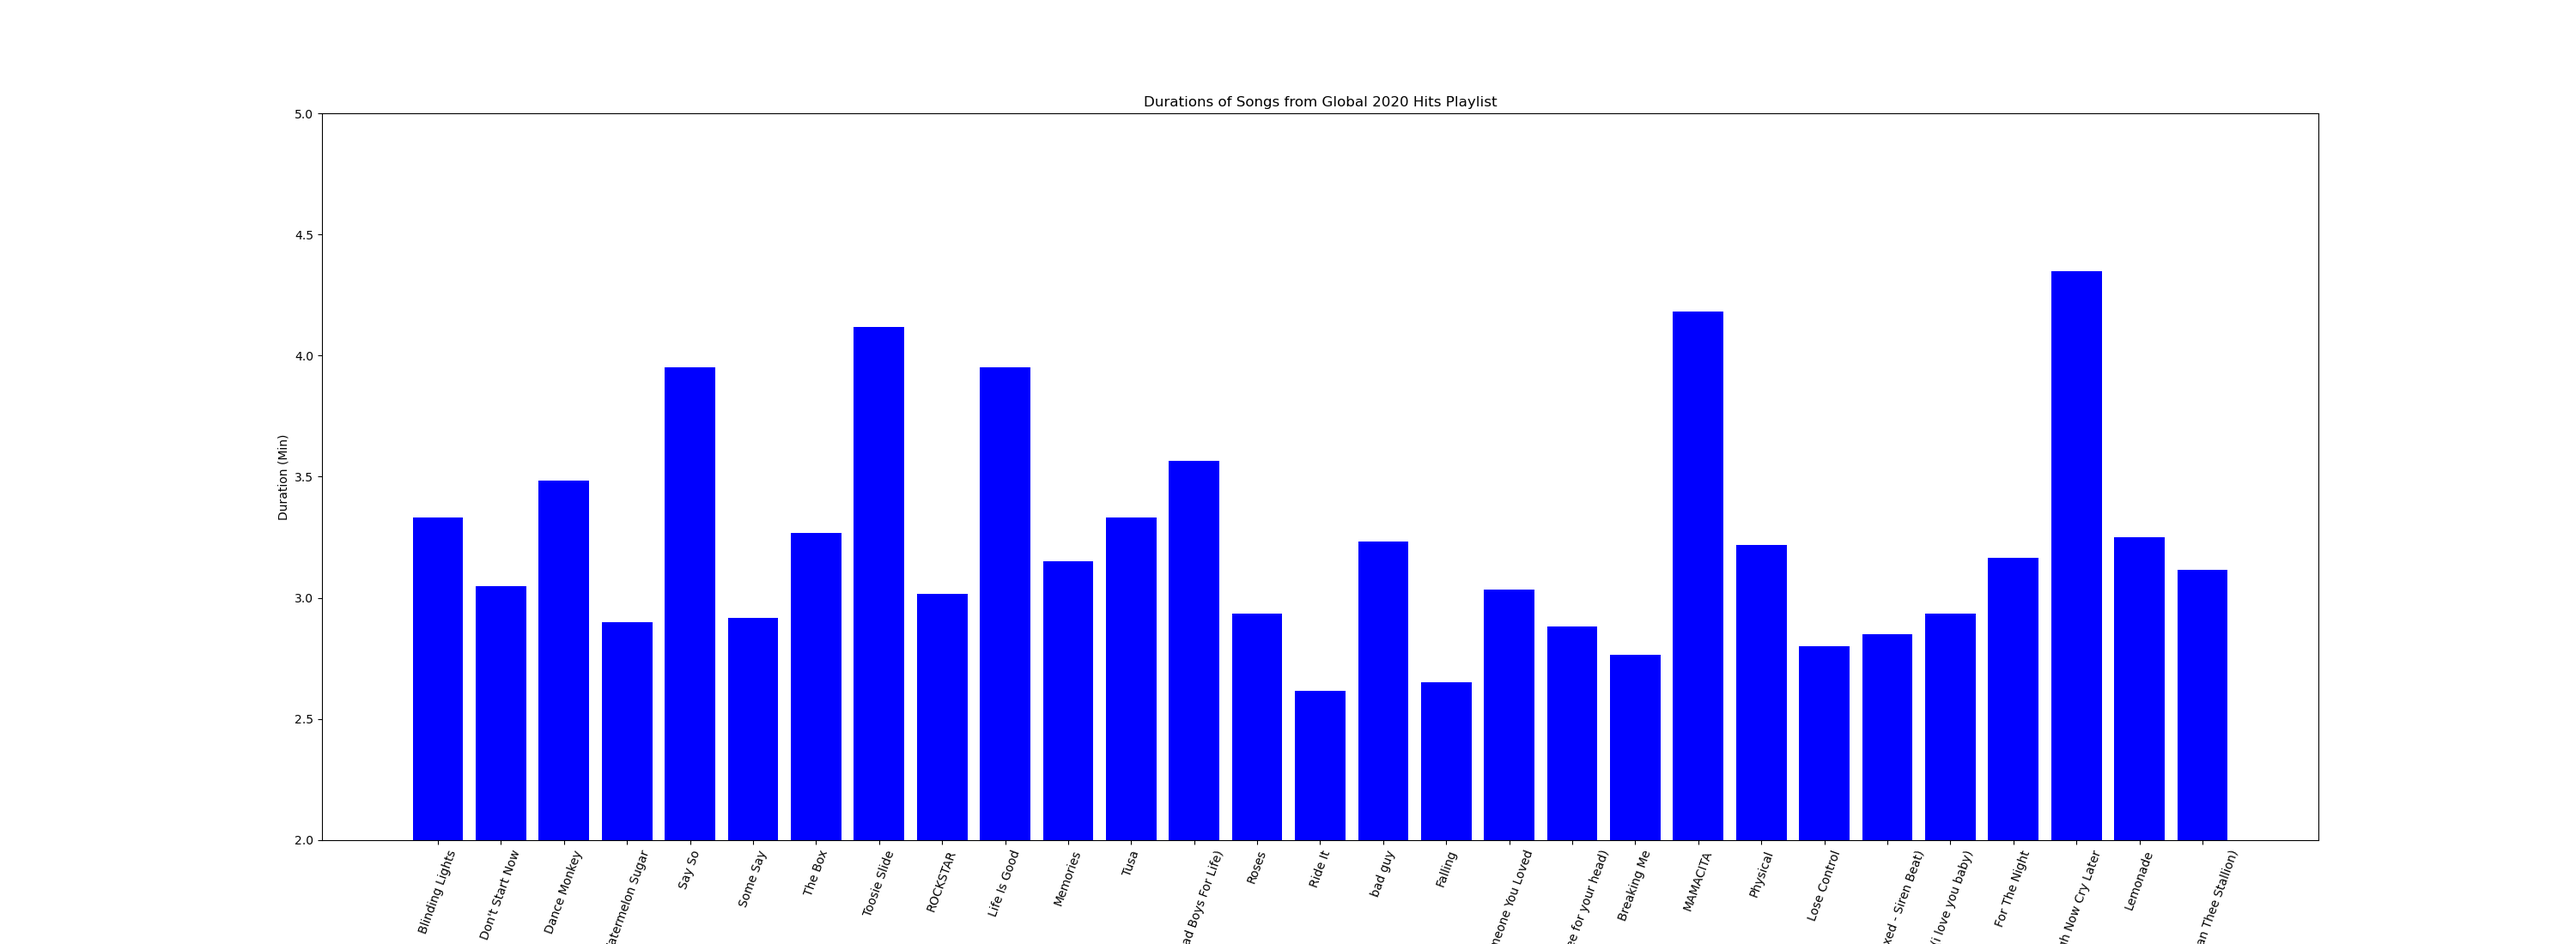
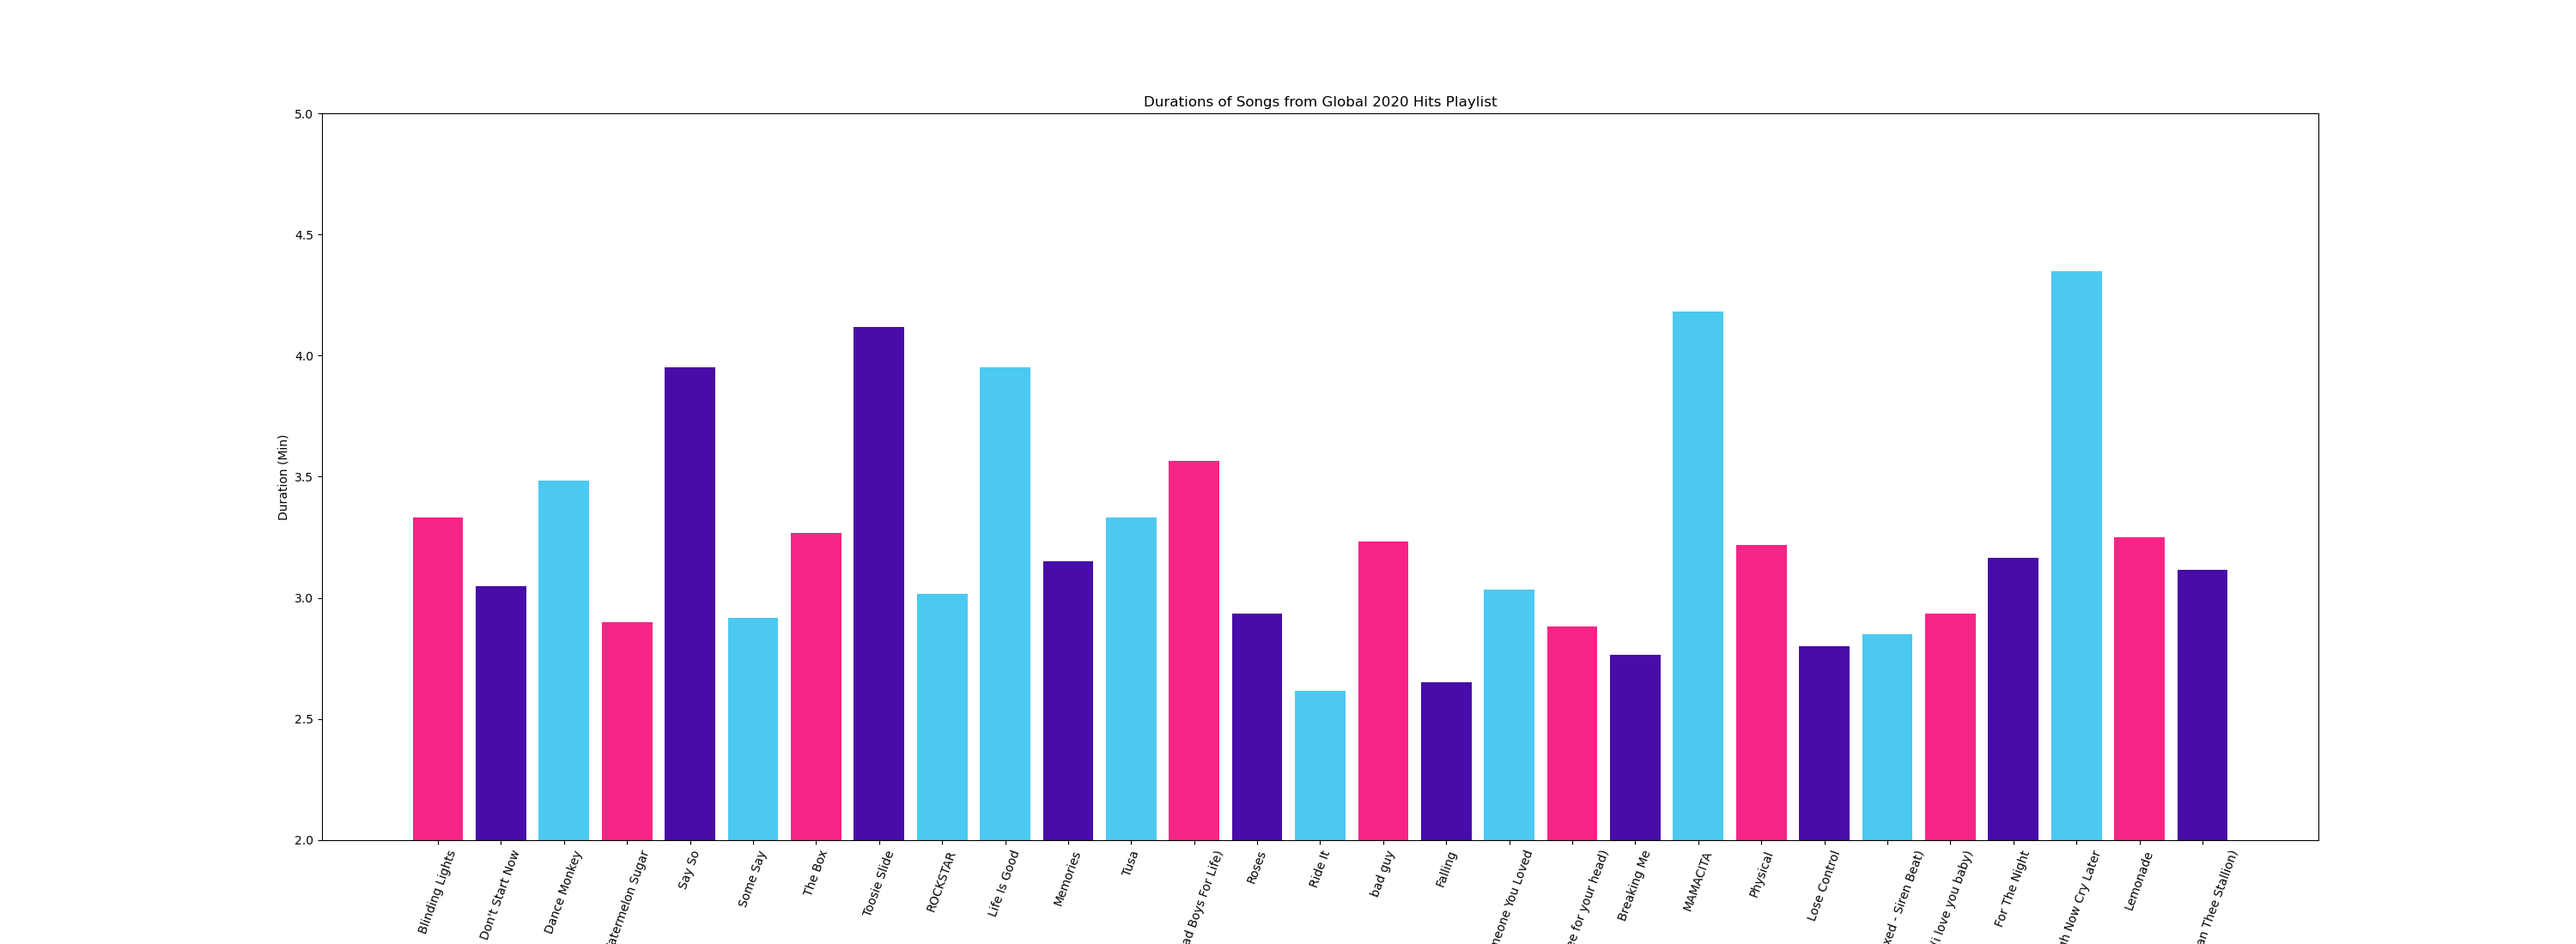
Add files via upload

Changed region(s): [[0.155, 0.2782, 0.868, 0.8964]]

diff --git a/deezer.py b/deezer.py
@@ -63,7 +63,7 @@ def music(cur, conn, Pname, playlist):
     conn.commit()
     #counter = 0
     f = open("DeezerSummary.txt", 'w')
-    f.write("Average duration for a song in the" + Pname + " is: " + str(avg_min) + " minutes" + "\n")
+    f.write("Average duration for a song in the Global 2020 Hits Playlist is: " + str(avg_min) + " minutes" + "\n")
     f.close()
     
 
@@ -92,7 +92,7 @@ def createvisual():
     plt.figure(1, figsize = (30,11))
     xbar = titles
     ybar = durations
-    plt.bar(xbar,ybar, width =.8, align = "center", color = "blue")
+    plt.bar(xbar,ybar, width =.8, align = "center", color = ["#f72585", '#480ca8', '#4cc9f0'])
     plt.title("Durations of Songs from Global 2020 Hits Playlist")
     plt.xlabel("Song Title")
     plt.ylabel("Duration (Min)")
